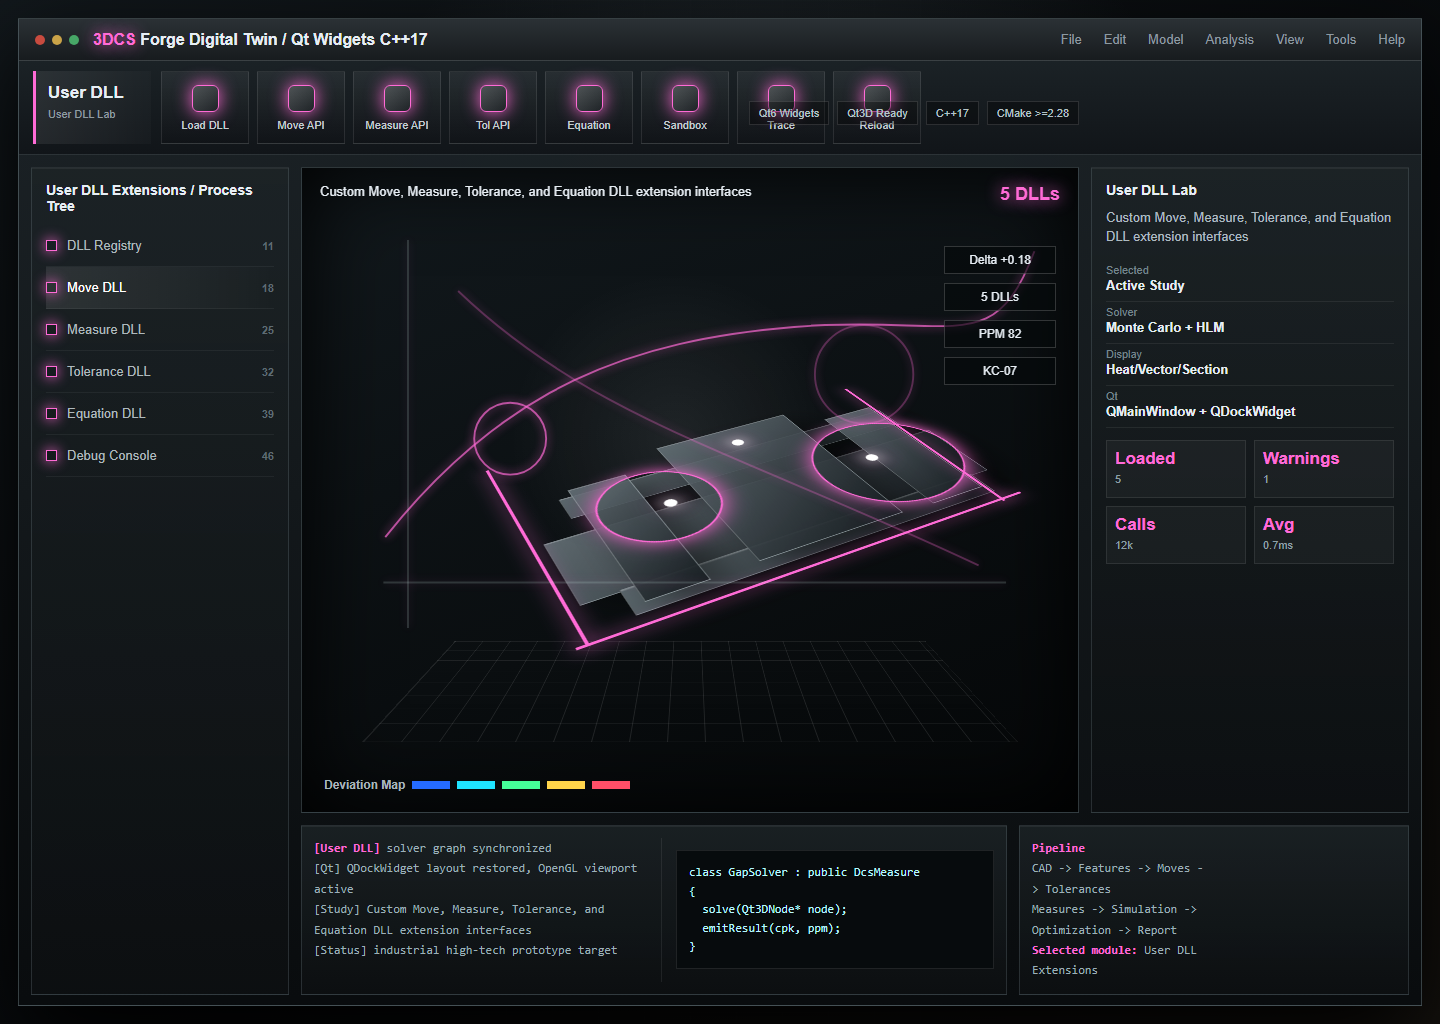
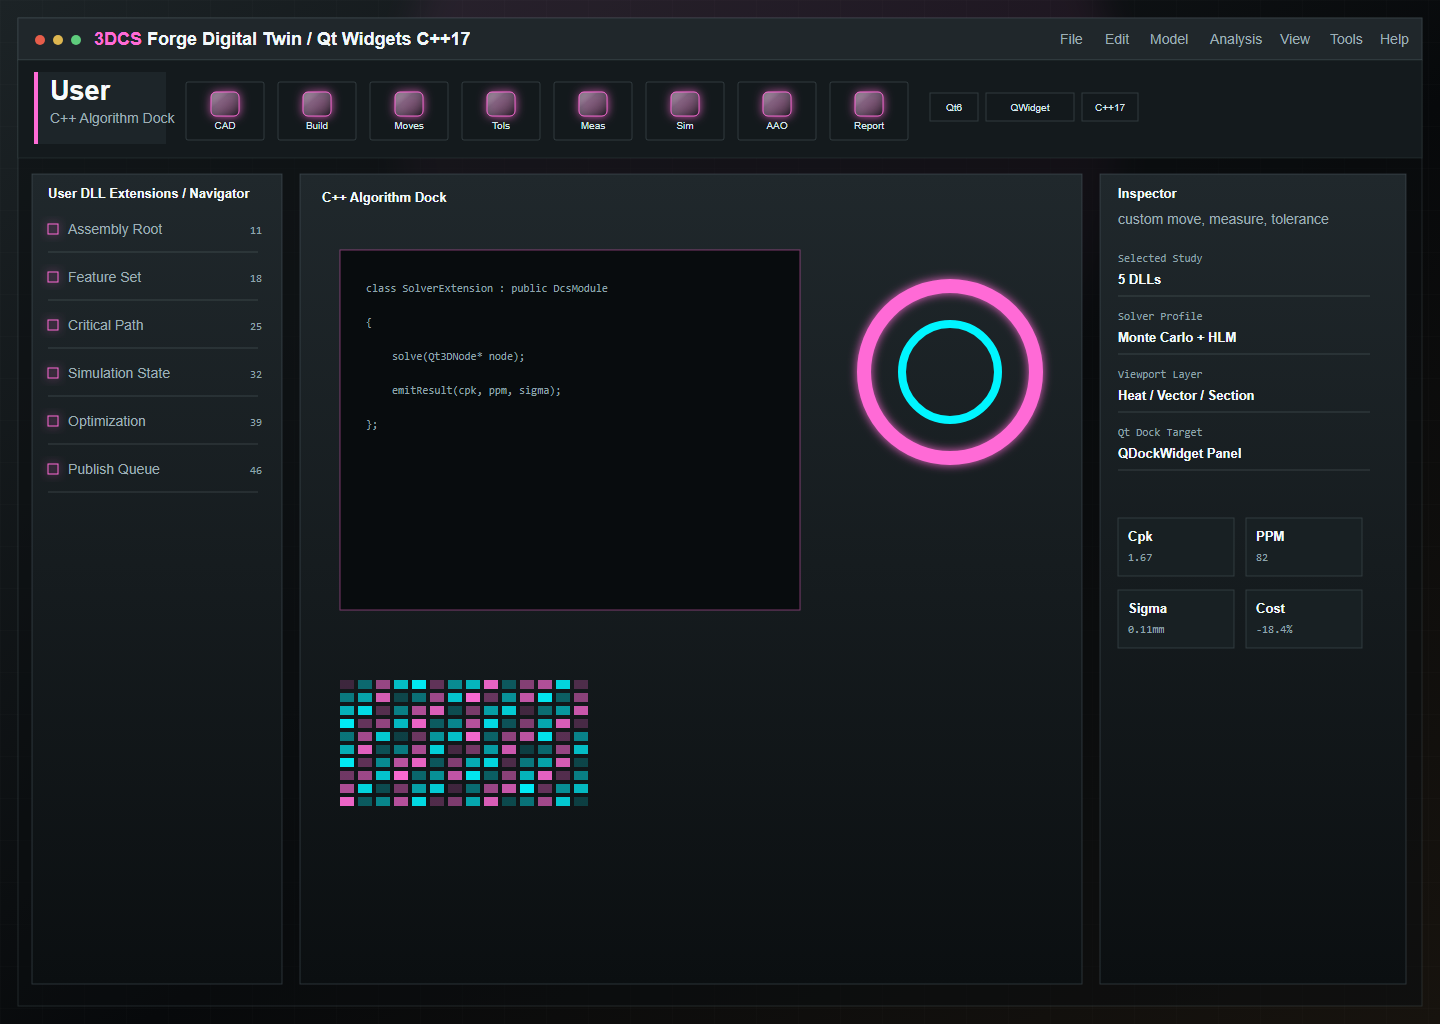
Redesign Forge Digital Twin prototype visuals

diff --git a/doc/prototypes/forge-digital-twin-product-design/README.md b/doc/prototypes/forge-digital-twin-product-design/README.md
@@ -1,27 +1,23 @@
 # 3DCS Forge Digital Twin Product Design Prototypes
 
-This folder contains high-fidelity PNG prototypes for the selected Product Design visual direction: Forge Digital Twin.
+Redesigned prototype image set for Option 1: Forge Digital Twin.
 
-Design target: Qt6 QWidget / Qt3D-ready C++17 desktop software, industrial high-tech visual language, polished dark forged-metal workspace, ribbon/menu tooling, 3D digital-twin viewport, dockable inspectors, telemetry HUD, simulation/optimization/report modules.
+This revision intentionally gives every subpage a distinct visual composition instead of reusing one screen template. The direction targets Qt6 QWidget / Qt3D-ready C++17 desktop software with industrial high-tech styling.
 
-Generated pages:
+Files:
 - 00_main_workbench.png - Main Workbench
 - 01_modeling.png - Modeling And Features
-- 02_moves.png - Moves And Assembly Constraints
+- 02_moves.png - Moves And Constraints
 - 03_tolerances.png - Tolerances And GD&T
-- 04_measures.png - Measurement And Inspection
+- 04_measures.png - Measurement Inspection
 - 05_simulation.png - Simulation Compute
 - 06_visualization.png - Visualization Analysis
 - 07_aao.png - AAO Optimization
 - 08_mechanical.png - Mechanical Motion
 - 09_fea_compliant.png - FEA Compliant Assembly
-- 10_reports.png - Reports And Publishing
+- 10_reports.png - Reports Publishing
 - 11_cad_integration.png - CAD Integration
 - 12_user_dll.png - User DLL Extensions
-- 13_help_tutorials.png - Help And Tutorials
+- 13_help_tutorials.png - Help Tutorials
 - 14_system.png - System Settings
 - 99_contact_sheet.png - overview contact sheet
-
-Implementation notes for later Qt QWidget work:
-- Use QMainWindow with QMenuBar, QToolBar/QTabBar-style ribbon, QDockWidget side panels, QTreeView/QTableView inspectors, and a central Qt3D/QOpenGLWidget viewport.
-- Keep the visual system consistent: forged dark panels, fine separator lines, restrained glow accents per module, dense engineering data, and large clear 3D model canvas.
